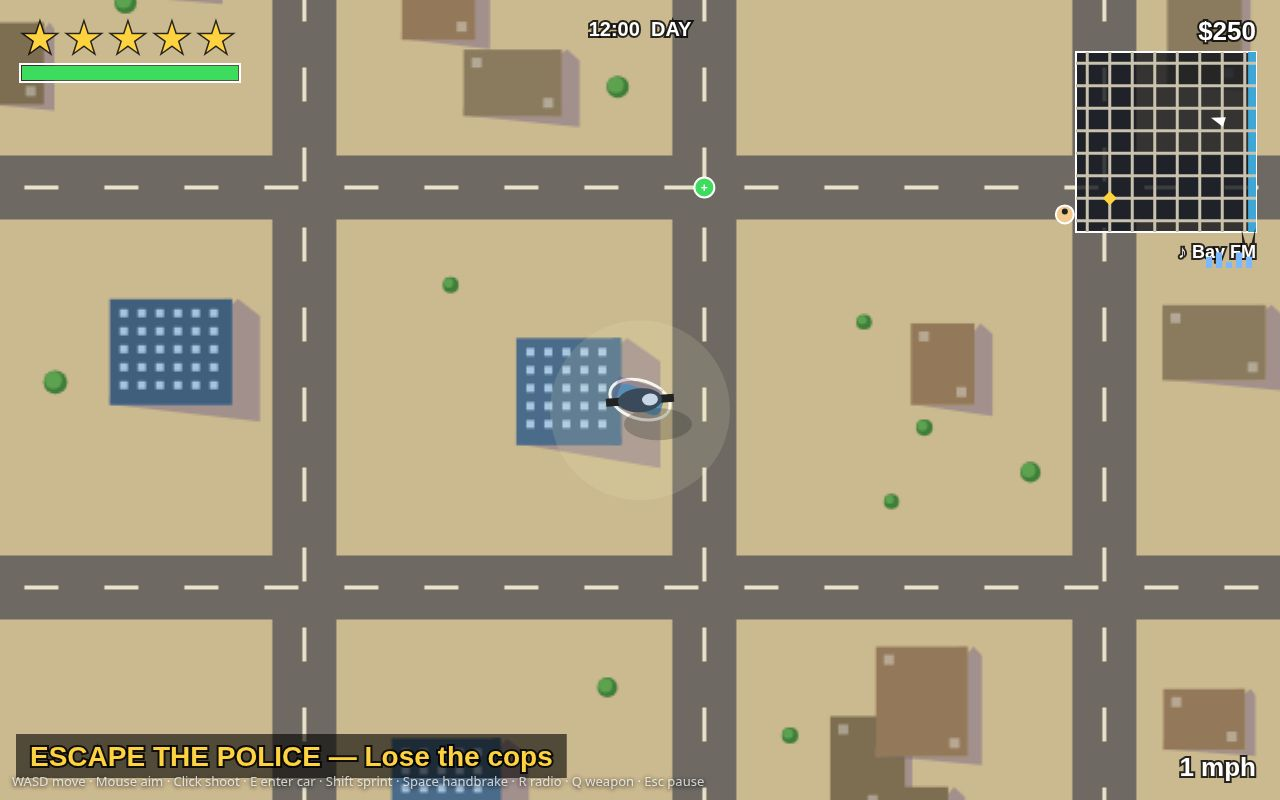
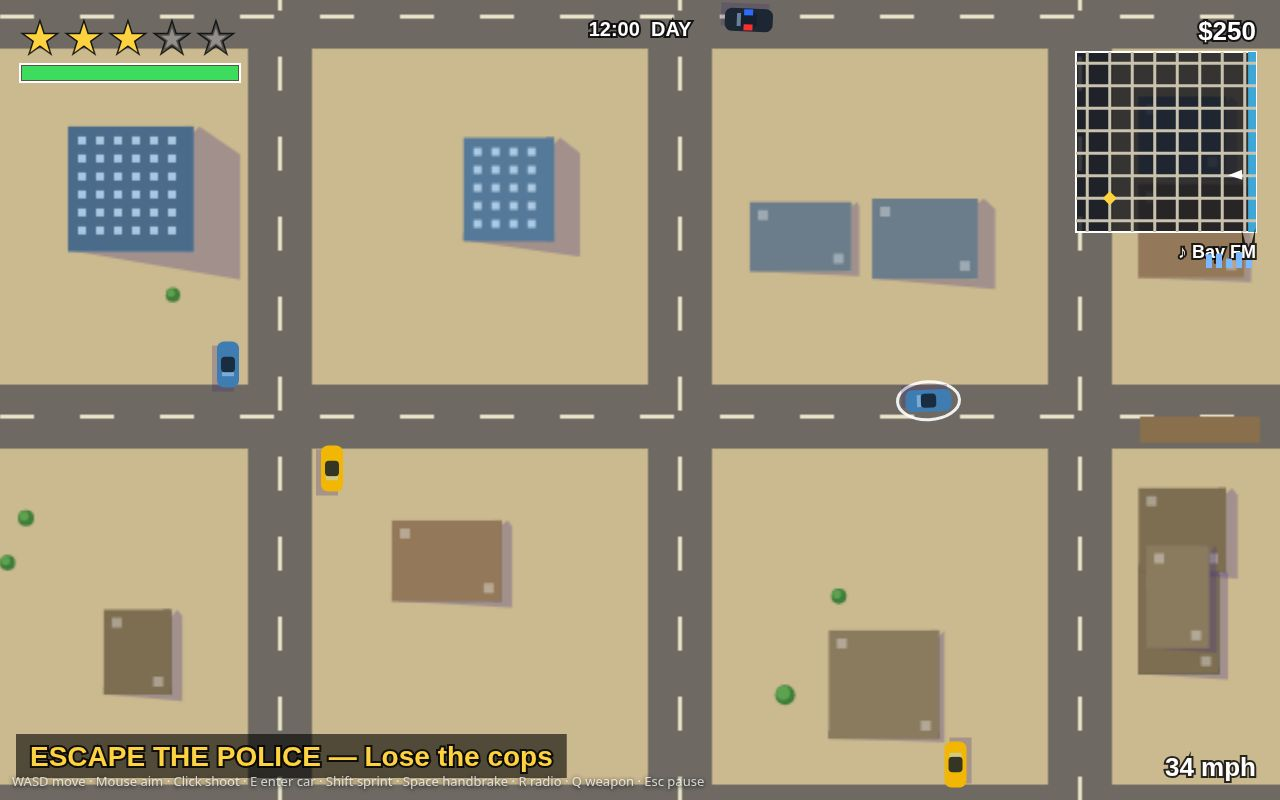
screenshots: cover (pier chase, 3 stars), mission (m8 shootout + Mara dialog), night (4 stars, roadblock), start (title); contact sheet + gray twin

diff --git a/game/src/main.js b/game/src/main.js
@@ -464,7 +464,17 @@ function spawnOnRoadNear(game, dist) {
 // Two parked police cars across the road ahead of the player's heading.
 function placeRoadblock(game) {
   const p = game.player;
-  const heading = p.car ? p.car.angle : 0;
+  // Aim along the route, not the car's nose: while the car stops and
+  // rotates in place for a sharp turn its angle points anywhere, and a
+  // block placed off-route is one the player drives away from (and that
+  // gets cleared as stale). The objective target is the travel direction.
+  const t = game.objectiveTarget;
+  let heading;
+  if (t && Math.hypot(t.x - p.x, t.y - p.y) > 100) {
+    heading = Math.atan2(t.y - p.y, t.x - p.x);
+  } else {
+    heading = p.car ? p.car.angle : 0;
+  }
   const ahead = { x: p.x + Math.cos(heading) * 520, y: p.y + Math.sin(heading) * 520 };
   const pt = nearestRoadPoint(game, ahead.x, ahead.y);
   const angle = pt.vertical ? 0 : Math.PI / 2;
